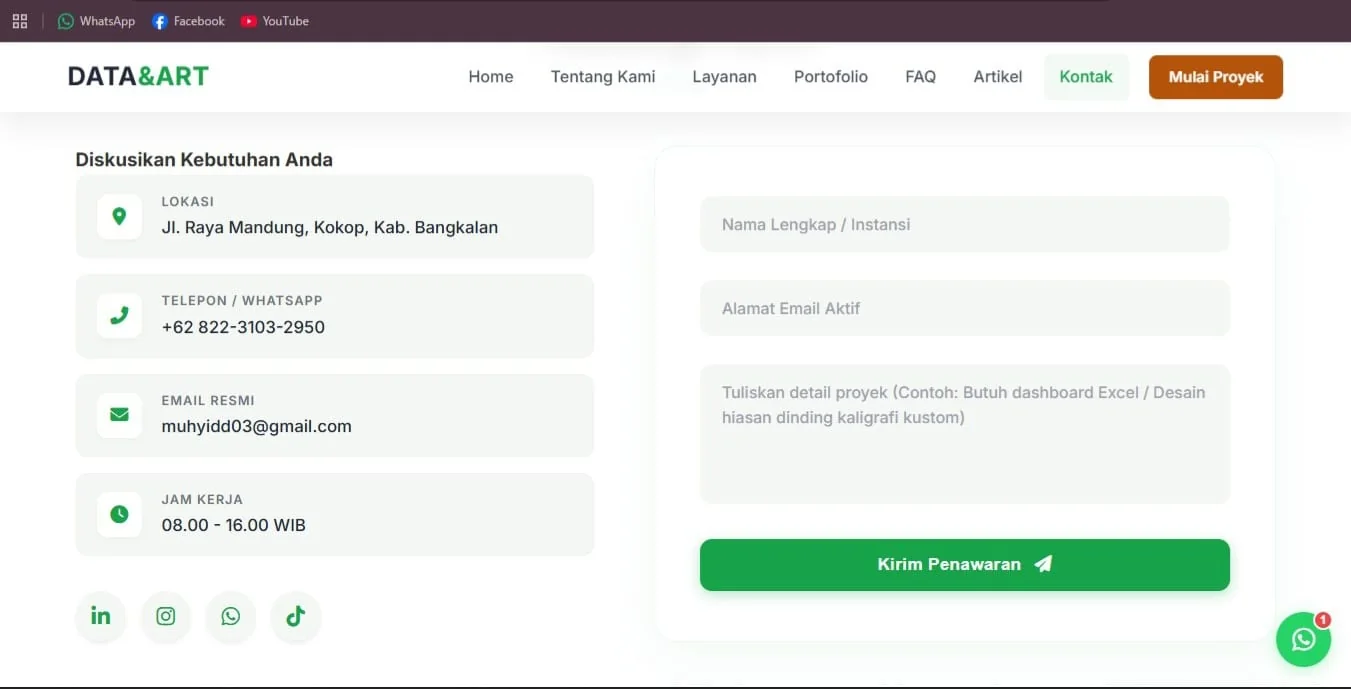
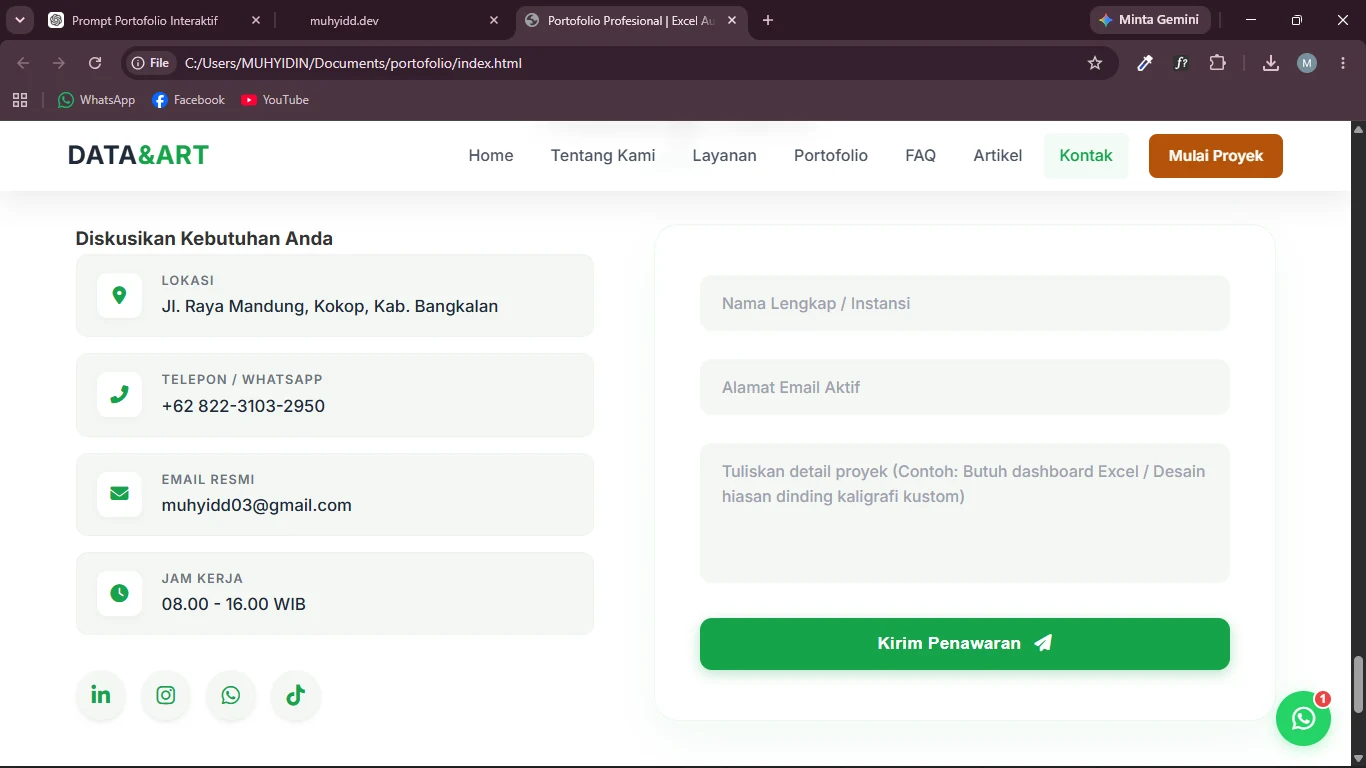
mengubah scroll

diff --git a/script.js b/script.js
@@ -19,12 +19,19 @@ navItems.forEach(a=>a.addEventListener('click',()=>{
   navMenu?.classList.remove('open');
 }));
 
-// V19: make all internal anchor buttons/links scroll reliably on every device.
+// V19/V91.2: scroll to the actual section content, not the section's outer padding.
+// This keeps headings visible directly below the fixed navbar instead of leaving
+// a large blank area at the top when navigating between sections.
 const scrollToSection = (id, updateUrl = true) => {
   const target = document.getElementById(id);
   if (!target) return false;
+
+  const content = target.querySelector(':scope > .section-inner');
+  const scrollTarget = content || target;
   const navHeight = navWrap?.getBoundingClientRect().height || 0;
-  const top = Math.max(0, target.getBoundingClientRect().top + window.scrollY - navHeight - 12);
+  const gap = 14;
+  const top = Math.max(0, scrollTarget.getBoundingClientRect().top + window.scrollY - navHeight - gap);
+
   window.scrollTo({ top, behavior: 'smooth' });
   if (updateUrl) history.replaceState(null, '', `#${id}`);
   return true;
@@ -99,10 +106,11 @@ document.querySelectorAll('[data-tilt]').forEach(card=>{
 const data={
  pos:{tag:'01 / SYSTEM',title:'Sistem Kasir Toko Kitab Pondok',desc:'Sistem kasir berbasis Excel VBA yang saya bangun untuk membuat proses penjualan kitab, pengelolaan stok, dan pencatatan transaksi lebih terstruktur.',overview:'Project ini berangkat dari kebutuhan membuat proses kasir toko kitab lebih terstruktur, mulai dari pemilihan pembeli, keranjang transaksi, hingga pencatatan stok.',built:'Saya membuat alur kasir yang lebih praktis: kitab dapat dimuat berdasarkan kelas santri, item bisa diedit atau ditambah, stok divalidasi, transaksi dicatat, dan piutang dapat dilacak.',role:'Merancang alur kasir, struktur workbook, interaksi VBA, validasi transaksi, dan struktur database di dalam workbook.',image:'assets/kasir-screenshot.webp',alt:'Screenshot asli Sistem Kasir Toko Kitab Pondok',highlights:['Keranjang transaksi dengan Qty yang bisa diedit','Daftar kitab otomatis berdasarkan kelas','Tambah dan hapus kitab dari keranjang','Validasi stok dan mutasi stok','Pencatatan piutang dan pembayaran','Struktur data transaksi dan detail transaksi'],tags:['Excel VBA','POS','Inventory','Database'],links:[]},
  portfolio:{tag:'02 / WEB',title:'Personal Portfolio',desc:'Website portfolio pribadi untuk memperkenalkan diri, menampilkan project, dan mendokumentasikan perjalanan belajar web development.',overview:'Portfolio ini saya bangun sebagai project nyata untuk menerapkan HTML, CSS, dan JavaScript sekaligus belajar merancang pengalaman pengguna yang rapi dan interaktif.',built:'Website ini dibuat dengan HTML, CSS, dan JavaScript tanpa framework. Fokusnya pada typography, responsive layout, animasi halus, dark mode, dan interaksi yang tetap nyaman digunakan.',role:'Mengerjakan struktur UI, responsive styling, interaction, animation, dan pengembangan halaman dari konsep hingga implementasi.',image:'assets/portfolio-screenshot.webp',alt:'Screenshot asli Personal Portfolio Muhyiddin',highlights:['Semantic HTML dan struktur section yang jelas','Responsive desktop, tablet, dan mobile','Dark mode dengan localStorage','Scroll reveal dan micro-interaction','Project showcase dan detail modal','Accessible focus dan reduced-motion support'],tags:['HTML','CSS','JavaScript','Responsive'],links:[{label:'GitHub',href:'https://github.com/muhyidd03-sudo'}]},
- dicoding:{tag:'03 / LEARNING',title:'Dicoding Web Project',desc:'Project latihan dari pembelajaran Dicoding untuk memperkuat dasar semantic HTML, CSS, layout responsive, dan penyusunan halaman web.',overview:'Project ini dibuat sebagai bagian dari proses belajar web development, dengan fokus pada semantic HTML, layout CSS, navigasi, dan tampilan yang responsif.',built:'Project ini saya gunakan untuk memperkuat fondasi frontend melalui tugas dan latihan yang langsung diterapkan dan diuji di browser.',role:'Mengerjakan struktur halaman, styling, responsive layout, dan pengembangan bertahap mengikuti kebutuhan tugas.',image:'assets/dicoding-screenshot.webp',alt:'Screenshot asli project web Dicoding Muhyiddin',highlights:['Semantic HTML','Flexbox dan responsive layout','Typography dan spacing','Navigasi halaman yang terstruktur','Pengembangan bertahap melalui latihan'],tags:['HTML','CSS','Dicoding'],links:[{label:'Profil Dicoding',href:'https://www.dicoding.com/users/muhyiddin_03hn8f/academies'}]}
+ dicoding:{tag:'03 / LEARNING',title:'Dicoding Web Project',desc:'Project latihan dari pembelajaran Dicoding untuk memperkuat dasar semantic HTML, CSS, layout responsive, dan penyusunan halaman web.',overview:'Project ini dibuat sebagai bagian dari proses belajar web development, dengan fokus pada semantic HTML, layout CSS, navigasi, dan tampilan yang responsif.',built:'Project ini saya gunakan untuk memperkuat fondasi frontend melalui tugas dan latihan yang langsung diterapkan dan diuji di browser.',role:'Mengerjakan struktur halaman, styling, responsive layout, dan pengembangan bertahap mengikuti kebutuhan tugas.',image:'assets/dicoding-screenshot.webp',alt:'Screenshot asli project web Dicoding Muhyiddin',highlights:['Semantic HTML','Flexbox dan responsive layout','Typography dan spacing','Navigasi halaman yang terstruktur','Pengembangan bertahap melalui latihan'],tags:['HTML','CSS','Dicoding'],links:[{label:'Profil Dicoding',href:'https://www.dicoding.com/users/muhyiddin_03hn8f/academies'}]},
+ dataart:{tag:'04 / WEB',title:'Data&Art Website',desc:'Website Data&Art dengan fokus pada tampilan visual, layout responsive, dan penyusunan halaman web.',overview:'Project ini menambah pengalaman saya dalam menyusun halaman web dengan struktur visual yang jelas dan tampilan yang nyaman dilihat.',built:'Saya mengembangkan tampilan halaman dengan memperhatikan susunan konten, spacing, komponen antarmuka, dan responsive layout.',role:'Mengerjakan penyusunan layout, styling, struktur halaman, dan penyesuaian tampilan agar tetap rapi di berbagai ukuran layar.',image:'assets/dataart-screenshot.webp',alt:'Screenshot asli Data&Art Website',highlights:['Struktur halaman yang terorganisir','Layout responsive','Penyusunan komponen antarmuka','Typography dan spacing','Visual website yang rapi'],tags:['HTML','CSS','Responsive'],links:[]}
 };
 
-/* V28 SELECTED WORK — reference-style continuous stacked slider */
+/* SELECTED WORK — continuous stacked slider */
 const showcaseTrack = document.querySelector('#showcase-track');
 const showcaseTag = document.querySelector('#showcase-tag');
 const showcaseTitle = document.querySelector('#showcase-title');
@@ -110,7 +118,7 @@ const showcaseDesc = document.querySelector('#showcase-desc');
 const showcaseTags = document.querySelector('#showcase-tags');
 const showcaseView = document.querySelector('.showcase-view');
 const showcaseCurrent = document.querySelector('#showcase-current');
-const showcaseOrder = ['pos','portfolio','dicoding'];
+const showcaseOrder = ['pos','portfolio','dicoding','dataart'];
 let showcaseProject = 0;
 let showcaseBusy = false;
 let showcaseCards = [];
@@ -119,7 +127,8 @@ let showcaseTimer = null;
 const showcaseCopy = {
   pos:{tag:'01 / SYSTEM',title:'Sistem Kasir Toko Kitab Pondok',desc:'Sistem kasir berbasis Excel VBA untuk mengelola transaksi, stok, kitab per kelas, piutang, pembayaran, dan laporan.',image:'assets/kasir-screenshot.webp',alt:'Screenshot Sistem Kasir Toko Kitab Pondok',tags:['VBA','Excel','Database']},
   portfolio:{tag:'02 / WEB',title:'Personal Portfolio',desc:'Portfolio responsive dengan visual minimal, animasi halus, dark mode, dan interaksi modern.',image:'assets/portfolio-screenshot.webp',alt:'Screenshot Personal Portfolio Muhyiddin',tags:['HTML','CSS','JavaScript']},
-  dicoding:{tag:'03 / LEARNING',title:'Dicoding Web Project',desc:'Project latihan Dicoding yang berfokus pada semantic HTML, CSS layout, dan responsive design.',image:'assets/dicoding-screenshot.webp',alt:'Screenshot Dicoding Web Project Muhyiddin',tags:['HTML','CSS']}
+  dicoding:{tag:'03 / LEARNING',title:'Dicoding Web Project',desc:'Project latihan Dicoding yang berfokus pada semantic HTML, CSS layout, dan responsive design.',image:'assets/dicoding-screenshot.webp',alt:'Screenshot Dicoding Web Project Muhyiddin',tags:['HTML','CSS']},
+  dataart:{tag:'04 / WEB',title:'Data&Art Website',desc:'Website Data&Art dengan fokus pada tampilan visual, layout responsive, dan penyusunan halaman web.',image:'assets/dataart-screenshot.webp',alt:'Screenshot Data&Art Website',tags:['HTML','CSS','Responsive']}
 };
 
 function modIndex(n){ return (n + showcaseOrder.length) % showcaseOrder.length; }
@@ -253,7 +262,7 @@ const media=document.querySelector('#modal-project-media'),mediaImg=document.que
 const overview=document.querySelector('#modal-overview'),built=document.querySelector('#modal-built'),role=document.querySelector('#modal-role');
 const highlights=document.querySelector('#modal-highlights'),tags=document.querySelector('#modal-tags'),actions=document.querySelector('#modal-actions'),count=document.querySelector('#modal-count');
 let lastFocus=null;
-const projectOrder=['pos','portfolio','dicoding'];
+const projectOrder=['pos','portfolio','dicoding','dataart'];
 const progressBar=document.querySelector('#case-progress-bar');
 const prevBtn=document.querySelector('#case-prev');
 const nextBtn=document.querySelector('#case-next');
@@ -270,7 +279,7 @@ function openModal(key, direction='none'){
   overview.textContent=d.overview; built.textContent=d.built; role.textContent=d.role;
   highlights.innerHTML=d.highlights.map(x=>`<li>${x}</li>`).join('');
   tags.innerHTML=d.tags.map(x=>`<span>${x}</span>`).join('');
-  count.textContent=String(index+1).padStart(2,'0')+' / 03';
+  count.textContent=String(index+1).padStart(2,'0')+' / 04';
   navIndex.textContent=String(index+1).padStart(2,'0');
   progressBar.style.width=`${((index+1)/projectOrder.length)*100}%`;
   mediaImg.classList.remove('is-loading');

diff --git a/index.html b/index.html
@@ -86,7 +86,7 @@
       <h2>Work<br><em>Gallery.</em></h2>
       <p>A collection of real projects I have built while learning, experimenting, and turning ideas into usable digital work.</p>
     </div>
-    <div class="work-gallery-count"><span>03</span> REAL PROJECTS</div>
+    <div class="work-gallery-count"><span>04</span> REAL PROJECTS</div>
   </div>
 
   <div class="showcase-carousel reveal" role="region" aria-label="Selected work gallery" tabindex="0">

diff --git a/README.md b/README.md
@@ -14,3 +14,6 @@ V91 is a final visual polish pass. It keeps the established V62/V90 design direc
 - Preserved browser title: **muhyidd.dev**.
 - Preserved the V90 blank favicon fix; no photo favicon is included.
 - No new libraries or external JavaScript dependencies.
+
+
+V91.2 — Smooth Section Scroll Fix: internal navigation now targets each section's content container so headings appear directly below the fixed navbar without the previous large blank offset.
